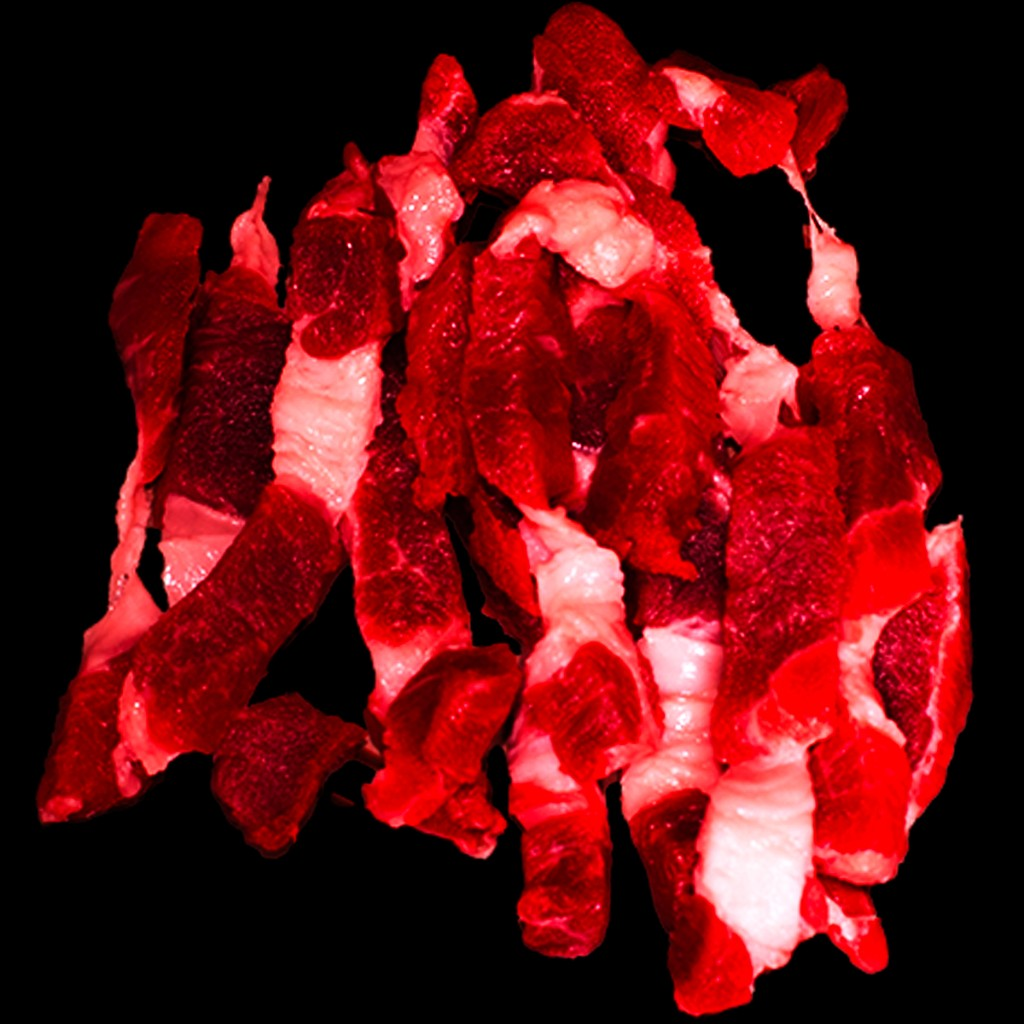
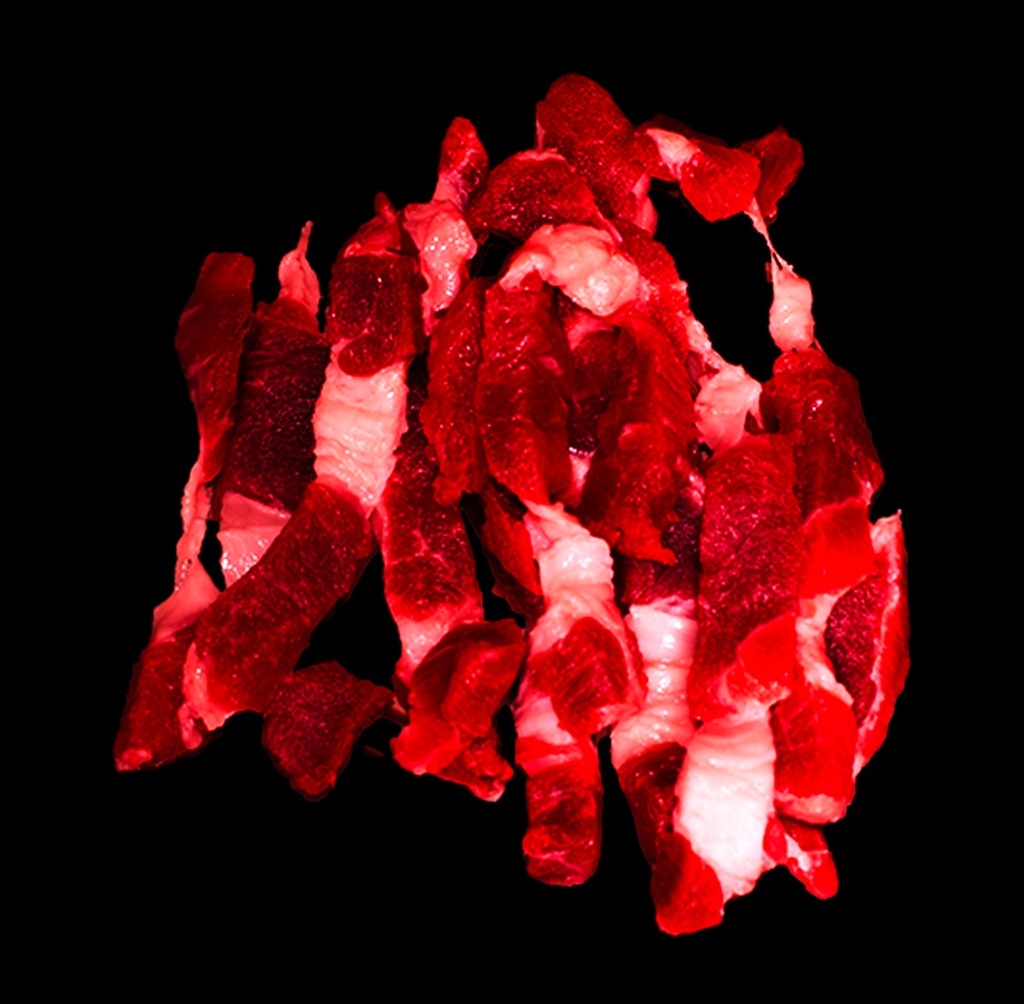
Match ingredient heroes to eggs height and bust the stale image cache.

diff --git a/index.html b/index.html
@@ -11,7 +11,7 @@
       href="https://fonts.googleapis.com/css2?family=Intel+One+Mono:wght@400;700&display=swap"
       rel="stylesheet"
     />
-    <link rel="stylesheet" href="css/style.css?v=verdict2" />
+    <link rel="stylesheet" href="css/style.css?v=hero4" />
   </head>
   <body>
     <section class="screen screen-intro" id="screen-intro" data-screen="intro">
@@ -96,7 +96,7 @@
         <h1 class="page-title">HOW<span class="howto-dash">-</span>TO</h1>
         <button type="button" class="text-btn back-btn" data-go="home">back</button>
       </header>
-        <img class="recipe-hero" id="recipe-hero" src="assets/w3-mushrooms.png" alt="" aria-hidden="true" />
+        <img class="recipe-hero" id="recipe-hero" src="assets/w3-mushrooms.png?v=hero4" alt="" aria-hidden="true" />
       <div class="recipe">
         <div class="recipe-ing">
           <p class="recipe-label">Ingredients</p>
@@ -144,6 +144,6 @@
       </div>
     </section>
 
-    <script src="js/app.js?v=verdict2"></script>
+    <script src="js/app.js?v=hero4"></script>
   </body>
 </html>

diff --git a/js/app.js b/js/app.js
@@ -29,11 +29,11 @@ const INGREDIENT_ALIASES = {
 };
 
 const HERO = {
-  mushrooms: "assets/w3-mushrooms.png",
-  eggs: "assets/w3-eggs.png",
-  meat: "assets/w3-meat.png",
-  noodles: "assets/w3-noodles.png",
-  scallion: "assets/w3-scallion.png",
+  mushrooms: "assets/w3-mushrooms.png?v=hero4",
+  eggs: "assets/w3-eggs.png?v=hero4",
+  meat: "assets/w3-meat.png?v=hero4",
+  noodles: "assets/w3-noodles.png?v=hero4",
+  scallion: "assets/w3-scallion.png?v=hero4",
 };
 
 const LETTERBOX = {

diff --git a/css/style.css b/css/style.css
@@ -578,8 +578,9 @@ body.is-transitioning {
   position: absolute;
   left: 50%;
   top: 50%;
-  width: min(68vh, 52vw);
-  height: min(68vh, 52vw);
+  --hero-size: min(68vh, 52vw);
+  width: var(--hero-size);
+  height: calc(var(--hero-size) * 1004 / 1024);
   transform: translate(-50%, -50%);
   object-fit: contain;
   mix-blend-mode: screen;
